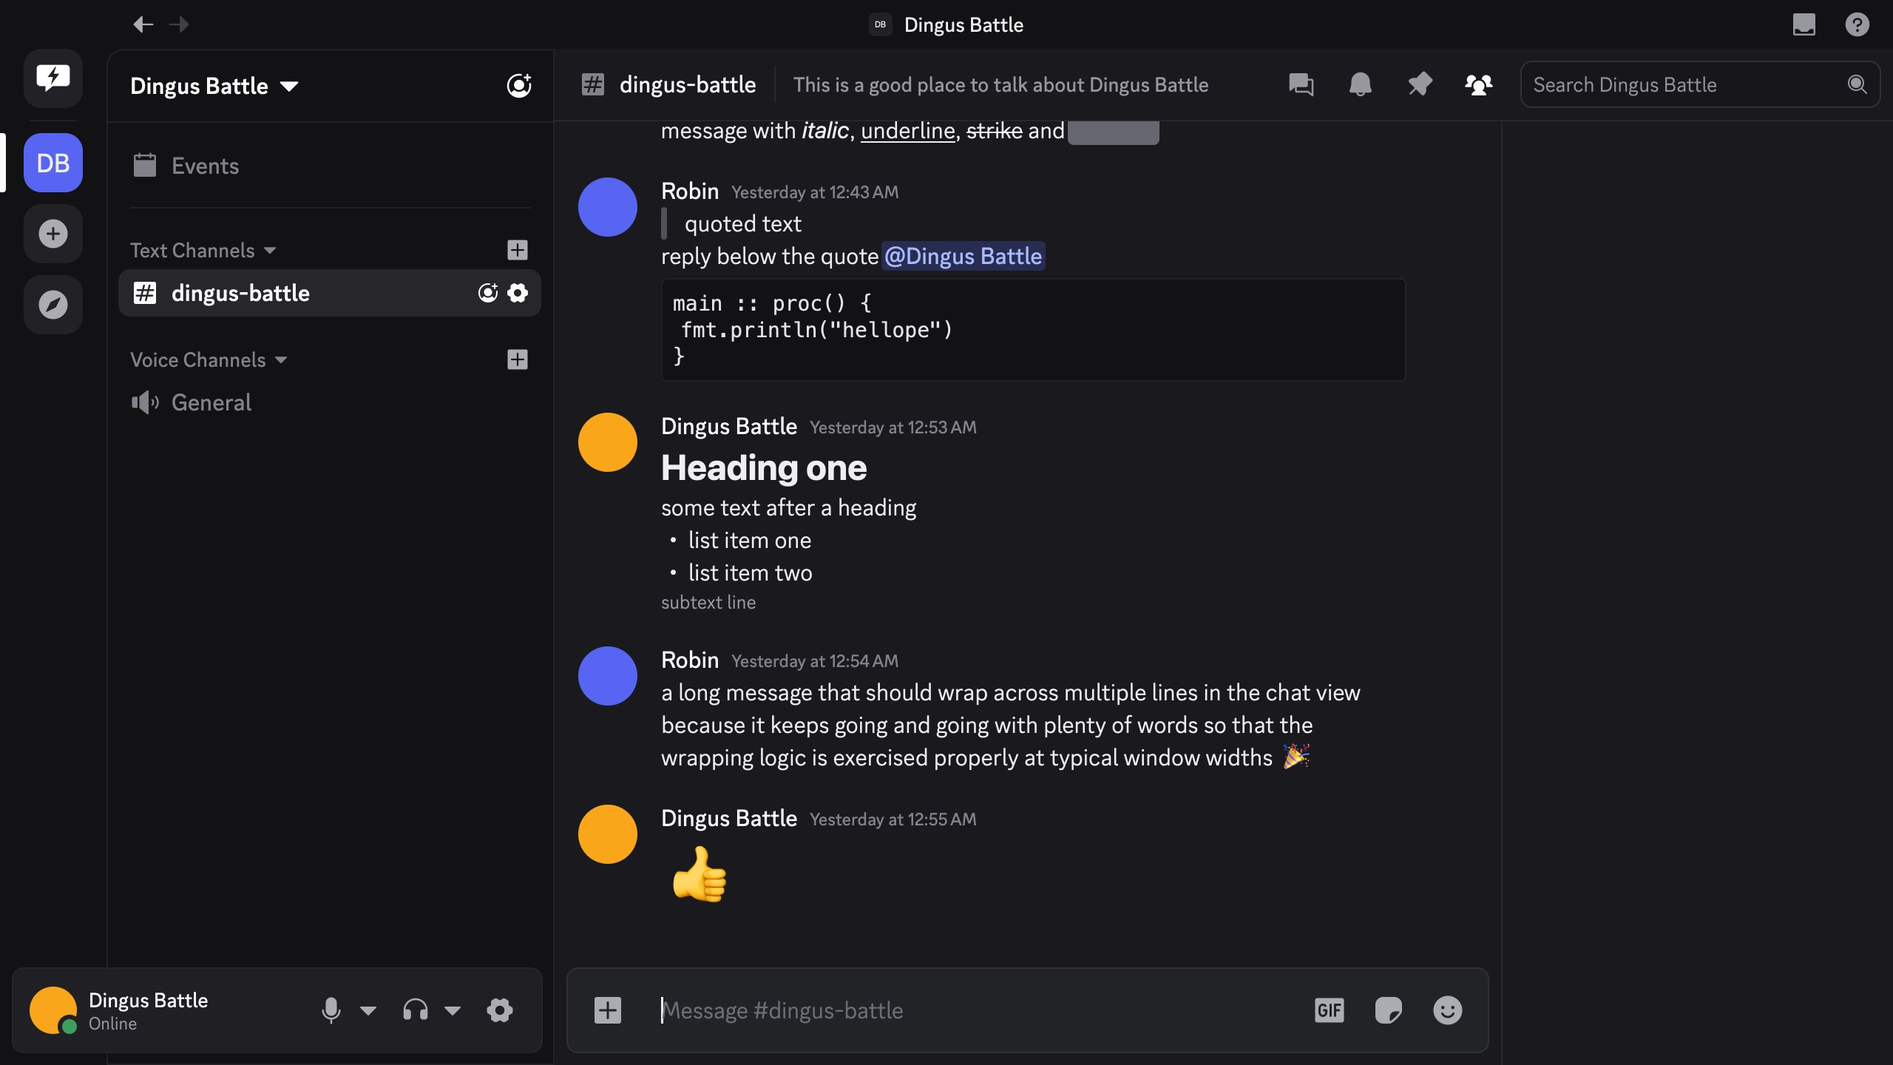
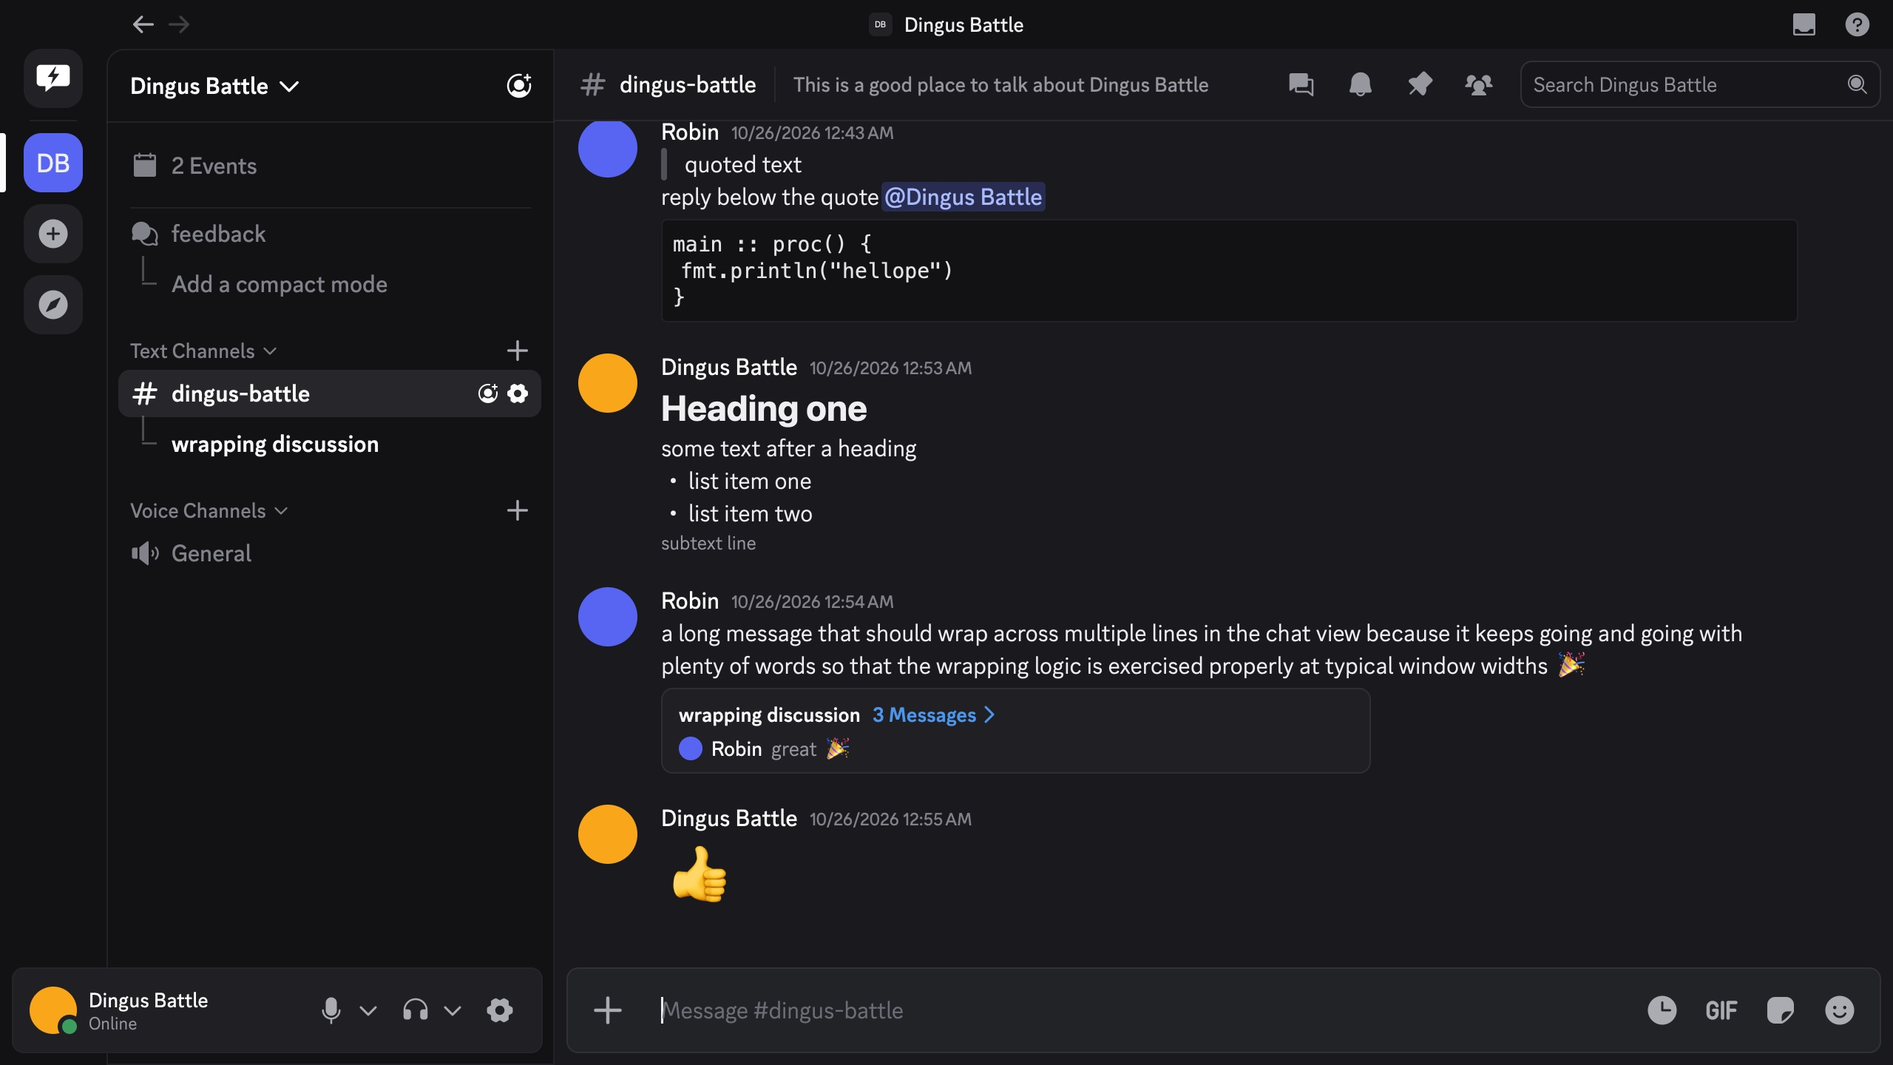
Site: Answer "Will I get banned?" first, with short copy and a fresh chart
- A "Will I get banned?" section: we don't know yet, proceed with caution,
  but it's unlikely; then three tiles (requests identical, Chrome's
  handshakes, rate limits) and the side-by-side recordings under it.
- Every paragraph is one line; first-launch notes are three short tiles.
- Feature cards sit 3 by 3 (2 by 3 on tablets, 1 column on phones).
- Phones: the two videos side by side above the traffic, compact tiles,
  swipeable scenario chips, request paths without /api/v9.
- The side-by-side opens on its cleanest scenario.
- A new hero screenshot and link preview from the current UI
  (tools/site_video.py hero).
- The all-scenarios chart is from today's live session (31 scenarios, no
  rate limits).

Also: the emoji picker's subscriptions and profile requests leave 1 ms
after top-emojis, the official order the session showed.

diff --git a/site/index.html b/site/index.html
@@ -66,12 +66,14 @@
   .shot { margin: 40px auto 0; border-radius: 14px; overflow: hidden; border: 1px solid var(--line);
     box-shadow: 0 30px 80px rgba(0,0,0,.45); }
   .shot img { display: block; width: 100%; height: auto; }
-  .grid { display: grid; grid-template-columns: repeat(auto-fit, minmax(240px, 1fr)); gap: 16px; padding: 64px 0 24px; }
+  .grid { display: grid; grid-template-columns: repeat(3, 1fr); gap: 16px; padding: 64px 0 24px; }
+  @media (max-width: 860px) { .grid { grid-template-columns: repeat(2, 1fr); } }
+  @media (max-width: 520px) { .grid { grid-template-columns: 1fr; } }
   .card { background: var(--panel); border: 1px solid var(--line); border-radius: 14px; padding: 20px; }
   .card h3 { margin: 0 0 6px; font-size: 17px; }
   .card p { margin: 0; color: var(--muted); font-size: 15px; }
+  .card a { color: var(--brand-hi); }
   .parity { padding: 40px 0 24px; }
-  .parity h2 { font-size: clamp(26px, 4.4vw, 38px); letter-spacing: -0.02em; margin: 0 0 8px; text-align: center; }
   .parity .sub { color: var(--muted); text-align: center; max-width: 640px; margin: 0 auto 24px; }
   .stats { display: flex; flex-wrap: wrap; justify-content: center; gap: 12px; margin-bottom: 20px; }
   .stat { background: var(--panel); border: 1px solid var(--line); border-radius: 12px; padding: 12px 18px; min-width: 150px; text-align: center; }
@@ -91,10 +93,7 @@
   .tip { min-height: 22px; text-align: center; color: var(--muted); font-size: 13px; font-family: ui-monospace, SFMono-Regular, Menlo, monospace;
     padding: 6px 0 12px; overflow-wrap: anywhere; }
   .fine { color: var(--muted); font-size: 13px; max-width: 720px; margin: 14px auto 0; text-align: center; }
-  .note { color: var(--muted); font-size: 14px; text-align: center; padding: 8px 0 40px; }
-  .note code { background: var(--panel); border: 1px solid var(--line); border-radius: 6px; padding: 1px 6px; }
-  .duel { padding: 56px 0 8px; }
-  .duel h2 { font-size: clamp(26px, 4.4vw, 38px); letter-spacing: -0.02em; margin: 0 0 8px; text-align: center; }
+  .duel { padding: 40px 0 8px; }
   .duel .sub { color: var(--muted); text-align: center; max-width: 680px; margin: 0 auto 20px; }
   .stage { display: grid; grid-template-columns: 1fr minmax(300px, 1.05fr) 1fr; gap: 14px; align-items: start;
     width: min(1360px, calc(100vw - 32px)); position: relative; left: 50%; transform: translateX(-50%); }
@@ -114,7 +113,7 @@
   .clock { font: 12px ui-monospace, SFMono-Regular, Menlo, monospace; color: var(--muted); font-variant-numeric: tabular-nums; }
   .wbtn { font: inherit; font-size: 12px; padding: 3px 9px; border-radius: 999px; border: 1px solid var(--line); background: transparent; color: var(--muted); cursor: pointer; }
   .wbtn:hover { color: var(--text); }
-  .rows { flex: 1; overflow-y: auto; padding: 6px 8px 10px; scroll-behavior: smooth; }
+  .rows { flex: 1; overflow-y: auto; overflow-x: hidden; padding: 6px 8px 10px; scroll-behavior: smooth; }
   .row { display: grid; grid-template-columns: 1fr 22px 1fr; gap: 6px; align-items: center; margin: 5px 0; cursor: pointer; }
   .pkt { font: 11px/1.35 ui-monospace, SFMono-Regular, Menlo, monospace; padding: 5px 7px; border-radius: 7px; border: 1px solid var(--line);
     background: var(--bg); overflow: hidden; text-overflow: ellipsis; white-space: nowrap; min-height: 26px; }
@@ -140,8 +139,35 @@
   .stage.big .vid video { cursor: zoom-out; }
   @media (max-width: 1100px) { .stage { grid-template-columns: 1fr 1fr; } .wire { grid-column: 1 / -1; order: 3; } }
   @media (min-width: 1101px) { .stage.big { grid-template-columns: 1fr 1fr; } .stage.big .wire { grid-column: 1 / -1; order: 3; } }
-  @media (max-width: 640px) { .stage { grid-template-columns: 1fr; } }
+  @media (max-width: 640px) {
+    .stage { gap: 8px; }
+    .vid h3 { padding: 7px 9px; font-size: 12px; }
+    .vid h3 .long { display: none; }
+  }
   @media (prefers-reduced-motion: reduce) { .row .l, .row .r, .row .eq { animation: none; } }
+  .ban { text-align: center; padding: 72px 0 8px; }
+  .ban h2 { font-size: clamp(30px, 5vw, 44px); letter-spacing: -0.02em; margin: 0 0 10px; }
+  .answer { font-size: clamp(18px, 2.6vw, 22px); margin: 0 auto 28px; max-width: 560px; }
+  .why, .steps { display: grid; grid-template-columns: repeat(3, 1fr); gap: 12px; }
+  .why div, .steps div { background: var(--panel); border: 1px solid var(--line); border-radius: 14px; padding: 16px; }
+  .why b { display: block; font-size: 20px; letter-spacing: -0.01em; }
+  .why span, .steps span { color: var(--muted); font-size: 14px; }
+  .steps { text-align: left; }
+  .steps div > b { display: block; margin-bottom: 4px; }
+  .steps span b { color: var(--text); font-weight: 600; }
+  .subhead { font-size: clamp(22px, 3.4vw, 28px); letter-spacing: -0.02em; margin: 0 0 6px; text-align: center; }
+  .first { padding: 40px 0 48px; }
+  @media (max-width: 640px) {
+    .why, .steps { grid-template-columns: 1fr; gap: 8px; }
+    .why div { display: flex; align-items: baseline; gap: 10px; padding: 12px 14px; text-align: left; }
+    .why b { font-size: 17px; white-space: nowrap; }
+    .ban { padding-top: 48px; }
+    .stats { display: grid; grid-template-columns: 1fr 1fr; gap: 8px; }
+    .stat { min-width: 0; padding: 10px; }
+    .stat b { font-size: 22px; }
+    .chips { flex-wrap: nowrap; overflow-x: auto; justify-content: flex-start; padding-bottom: 6px; scrollbar-width: none; }
+    .chip { flex: none; }
+  }
   footer { border-top: 1px solid var(--line); color: var(--muted); font-size: 13px; padding: 24px 0 40px; text-align: center; }
   footer a { color: var(--muted); }
 </style>
@@ -156,7 +182,7 @@
 
   <section class="hero">
     <h1>Chat, <span>native</span>.</h1>
-    <p class="lede">A fast client for Discord, written from scratch. No browser inside — just a native renderer that starts instantly, scrolls smoothly, and idles at zero CPU.</p>
+    <p class="lede">A fast Discord client with no browser inside.</p>
     <div class="downloads">
       <a class="btn primary" id="dl-mac" href="https://github.com/creikey/fastcord/releases/latest/download/fastcord-macos.zip">macOS <small>Apple silicon &amp; Intel</small></a>
       <a class="btn" id="dl-win" href="https://github.com/creikey/fastcord/releases/latest/download/fastcord-windows.zip">Windows <small>10 &amp; 11, x64</small></a>
@@ -167,21 +193,30 @@
   </section>
 
   <section class="grid">
-    <div class="card"><h3>Instant</h3><p>Native GPU rendering (Metal, Direct3D 11, OpenGL) with an immediate-mode UI. Every interaction lands on the next frame.</p></div>
-    <div class="card"><h3>Light on battery</h3><p>Nothing renders unless something changes. Idle is zero frames, zero wakeups.</p></div>
-    <div class="card"><h3>Small</h3><p>One ~5 MB app. No Chromium, no Node, no bundled browser.</p></div>
-    <div class="card"><h3>Familiar</h3><p>Servers, channels, DMs, friends, reactions, emoji, GIFs, stickers and the layout you already know.</p></div>
-    <div class="card"><h3>Voice</h3><p>Voice chat with Discord's end-to-end encryption, written from the ground up.</p></div>
-    <div class="card"><h3>Well-behaved</h3><p>Sends the same requests as the official desktop client, at the same moments. See below.</p></div>
+    <div class="card"><h3>Instant</h3><p>GPU-rendered. Every input lands on the next frame.</p></div>
+    <div class="card"><h3>Light on battery</h3><p>Idle means zero frames and zero wakeups.</p></div>
+    <div class="card"><h3>Small</h3><p>One ~5 MB app. No Chromium, no Node.</p></div>
+    <div class="card"><h3>Familiar</h3><p>The servers, DMs and layout you already know.</p></div>
+    <div class="card"><h3>Voice</h3><p>Voice with Discord's end-to-end encryption.</p></div>
+    <div class="card"><h3>Well-behaved</h3><p>Talks to Discord like the official app. <a href="#ban">See below.</a></p></div>
   </section>
 
+  <section class="ban" id="ban">
+    <h2>Will I get banned?</h2>
+    <p class="answer">We don't know yet. Proceed with caution, but it's unlikely.</p>
+    <div class="why">
+      <div><b id="why-pairs">Same requests</b><span>as the official app, field for field</span></div>
+      <div><b>Same handshakes</b><span>Chrome's TLS, HTTP/2 and QUIC</span></div>
+      <div><b id="why-rl">0 rate limits</b><span>across every live test</span></div>
+    </div>
+  </section>
 
   <section class="duel" id="side-by-side">
-    <h2>Same clicks, same packets</h2>
-    <p class="sub">Both clients, recorded doing the same thing with the same test account. The videos play in real time (click one to enlarge); in the middle, every request, gateway message and telemetry event each one sent to Discord, replayed at 1/10 speed and lined up. Tap a row to compare headers and payload fields.</p>
+    <h3 class="subhead">Same clicks, same packets</h3>
+    <p class="sub">The same action in both apps, and every packet each one sent, replayed at 1/10 speed.</p>
     <div class="chips" id="dchips" role="group" aria-label="Interaction"></div>
     <div class="stage">
-      <div class="vid"><h3><i></i>Official Discord app</h3><video id="vo" muted playsinline loop preload="metadata"></video><div class="vbar" id="bo"></div></div>
+      <div class="vid"><h3><i></i>Official<span class="long">&nbsp;Discord app</span></h3><video id="vo" muted playsinline loop preload="metadata"></video><div class="vbar" id="bo"></div></div>
       <div class="wire" id="wire">
         <div class="whead"><span class="clock">Official</span><span class="srv">discord.com</span><span class="clock">Fastcord</span></div>
         <div class="whead"><span class="clock" id="wclock">+0.000 s</span><span class="clock">1/10 speed</span><button class="wbtn" id="wreplay">Replay</button></div>
@@ -190,23 +225,27 @@
       </div>
       <div class="vid fc"><h3><i></i>Fastcord</h3><video id="vf" muted playsinline loop preload="metadata"></video><div class="vbar" id="bf"></div></div>
     </div>
-    <p class="fine" id="dfine">Only shapes are shown, never values: method and path with ids folded, header names in the order they left the machine (from Chrome's and Fastcord's network logs), JSON field names, gateway opcodes, telemetry event names and property names. Left out: heartbeats (each client sends them on its own schedule) and image or sticker downloads (they depend on what each client has cached). Differences that remain are shown as they are, unmatched rows included. One under review: the official app, recorded in a background test window, skipped read acks that Fastcord sent.</p>
+    <p class="fine">Tap a row to compare headers and fields. Only shapes are shown, never values.</p>
   </section>
 
   <section class="parity" id="traffic">
-    <h2>Indistinguishable on the wire</h2>
-    <p class="sub">To Discord's servers, Fastcord behaves like the official desktop app: the same requests with Chrome's headers in Chrome's wire order, the same TLS and HTTP/2 handshakes, the same gateway messages and telemetry batches, sent at the same moments. We recorded both clients doing the same things and lined their traffic up event by event.</p>
+    <h3 class="subhead">Every scenario</h3>
+    <p class="sub" id="psub">From a live session on October 28, 2026.</p>
     <div class="stats" id="pstats"></div>
     <div class="chips" id="pchips" role="group" aria-label="Scenario"></div>
     <div class="lanes"><svg id="plane" viewBox="0 0 1000 150" role="img" aria-label="Request timeline of both clients"></svg>
       <div class="tip" id="ptip">Hover a dot to see the request.</div></div>
-    <div class="legend"><span><i style="background:var(--brand-hi)"></i>REST request</span><span><i style="background:#e8a33d"></i>Gateway message</span><span><i style="background:#3db8a6"></i>Telemetry event</span><span><i style="border:1.5px solid var(--brand-hi)"></i>Fastcord sent it earlier in the session</span><span><i style="border:1.5px solid var(--muted)"></i>Only in one client</span></div>
-    <p class="fine">Every scenario, from the last full session (32 scenarios, October 27, 2026, before the fixes shown above). Each official recording starts right after a fresh launch; Fastcord ran every scenario in one 14-minute session, as a person would, so one-time loads (command lists, emoji data) show up earlier for it. Events shown faint are ones Fastcord did not send in that session. Every action is also replayed offline against the official recording from the same starting state, request by request and header by header.</p>
+    <div class="legend"><span><i style="background:var(--brand-hi)"></i>REST request</span><span><i style="background:#e8a33d"></i>Gateway message</span><span><i style="background:#3db8a6"></i>Telemetry event</span><span><i style="border:1.5px solid var(--brand-hi)"></i>Sent earlier in the session</span><span><i style="border:1.5px solid var(--muted)"></i>Only in one client</span></div>
   </section>
 
-  <p class="note">Windows: unzip and run <b>Fastcord.exe</b>. It isn't code-signed yet, so SmartScreen may warn the first time: click <b>More info → Run anyway</b>.</p>
-  <p class="note">Linux: extract the archive and run <b>./fastcord</b>, or <b>./install.sh</b> to add it to your app menu. One build for every distribution (glibc 2.17 or newer), on X11 and Wayland desktops.</p>
-  <p class="note">First launch on macOS: Fastcord isn't notarized by Apple yet, so macOS blocks it the first time. Click <b>Done</b>, then open <b>System Settings → Privacy &amp; Security</b> and click <b>Open Anyway</b>. After that it opens normally and shows an Update button when a new release is out.</p>
+  <section class="first">
+    <h3 class="subhead">First launch</h3>
+    <div class="steps">
+      <div><b>macOS</b><span>Blocked once: <b>System Settings → Privacy &amp; Security → Open Anyway</b>.</span></div>
+      <div><b>Windows</b><span>SmartScreen warns once: <b>More info → Run anyway</b>.</span></div>
+      <div><b>Linux</b><span>Run <b>./fastcord</b>, or <b>./install.sh</b> for the app menu.</span></div>
+    </div>
+  </section>
 
   <footer>
     Fastcord is an unofficial client and is not affiliated with or endorsed by Discord Inc.
@@ -221,7 +260,7 @@
     const $ = id => document.getElementById(id);
     const vo = $("vo"), vf = $("vf"), rows = $("wrows"), det = $("wdetail"), clock = $("wclock");
     const esc = t => t.replace(/[&<>]/g, c => ({"&": "&amp;", "<": "&lt;", ">": "&gt;"})[c]);
-    const label = e => e.k === 2 ? "science · " + e.l : e.k === 1 ? "gateway · " + e.l : e.l;
+    const label = e => e.k === 2 ? "science · " + e.l : e.k === 1 ? "gateway · " + e.l : e.l.replace(" /api/v9/", " /");
     const same = (a, b) => a && b && JSON.stringify(a) === JSON.stringify(b);
     let cur, raf, t0;
     // pairs in time order: matched [i, j], or only-official [i, -1] / only-fastcord [-1, j]
@@ -291,12 +330,19 @@
       st.style.setProperty("--wire-h", (wide ? Math.max(300, vo.getBoundingClientRect().height + 80) : 440) + "px"); };
     addEventListener("resize", fit); vo.addEventListener("loadedmetadata", fit);
     for (const v of [vo, vf]) v.onclick = () => { document.querySelector(".stage").classList.toggle("big"); fit(); };
+    // the ban section's first tile: matched pairs identical in protocol, header order and fields
+    let nsame = 0, nall = 0;
+    for (const s of d.scenarios) for (const [i, j] of s.m) { nall++; nsame += verdict(s.o[i], s.f[j]).ok; }
+    $("why-pairs").textContent = `${nsame} of ${nall}`;
+    $("why-pairs").nextElementSibling.textContent = "requests identical to the official app's";
     for (const s of d.scenarios) {
       const b = document.createElement("button");
       b.className = "chip"; b.dataset.n = s.n; b.textContent = s.title;
       b.onclick = () => show(s); $("dchips").append(b);
     }
-    show(d.scenarios[0]);
+    // open on the scenario with the fewest unpaired events
+    const loose = s => s.o.length + s.f.length - 2 * s.m.length;
+    show(d.scenarios.reduce((a, b) => loose(b) < loose(a) ? b : a));
   }).catch(() => document.getElementById("side-by-side").remove());
 </script>
 <script>
@@ -313,7 +359,7 @@
     }
     const stat = (v, t) => `<div class="stat"><b>${v}</b><span>${t}</span></div>`;
     document.getElementById("pstats").innerHTML = stat(sc.length, "scenarios recorded") +
-      stat(pct(ok, n), "requests &amp; gateway messages in step") + stat(pct(tok_, tn), "measurable telemetry in step") + stat("0", "rate limits hit");
+      stat(pct(ok, n), "requests &amp; gateway messages in step") + stat(pct(tok_, tn), "telemetry events in step") + stat("0", "rate limits hit");
     const chips = document.getElementById("pchips"), svg = document.getElementById("plane"), tip = document.getElementById("ptip");
     const show = s => {
       for (const c of chips.children) c.setAttribute("aria-pressed", c.dataset.n === s.n);

diff --git a/tools/site_video.py b/tools/site_video.py
@@ -10,6 +10,8 @@
 #
 #   python3 -I tools/site_video.py fastcord <s>...   (live run, needs build/fastcord-dev)
 #   python3 -I tools/site_video.py build <s>...      (scrub, encode the videos, write parity_video.json)
+#   python3 -I tools/site_video.py hero              (site/screenshot.jpg from the threads fixture, offline;
+#                                                     then `jai build.jai - og` for the link preview)
 import json, os, re, subprocess, sys, tempfile
 
 ROOT = os.path.dirname(os.path.dirname(os.path.abspath(__file__)))
@@ -169,7 +171,15 @@ def build(names):
     print(f'-> {dst} ({os.path.getsize(dst)} bytes)')
 
 
+def hero():
+    png = os.path.join(SEC, 'video', 'hero.png')
+    run(os.path.join(ROOT, 'build', 'fastcord-dev'), f'-shot:{png}', '-dpi:2', f'-fixture:{ROOT}/tests/ui/chat_threads.jsonl',
+        '-channel:1546820603343016006', f'-script:{ROOT}/tests/video/hero.txt', cwd=ROOT)
+    run('sips', '-s', 'format', 'jpeg', '-s', 'formatOptions', '85', png, '--out', os.path.join(ROOT, 'site', 'screenshot.jpg'), stdout=subprocess.DEVNULL)
+
+
 if __name__ == '__main__':
+    if len(sys.argv) == 2 and sys.argv[1] == 'hero': hero(); raise SystemExit
     if len(sys.argv) < 3 or sys.argv[1] not in ('fastcord', 'build'): raise SystemExit(__doc__ if __doc__ else 'usage: site_video.py fastcord|build <scenario>...')
     if sys.argv[1] == 'fastcord':
         for s in sys.argv[2:]: fastcord(s)

diff --git a/TODO.md b/TODO.md
@@ -131,6 +131,7 @@
 - [ ] Timeouts: being timed out in a server shows nothing. Nothing reads the member's `communication_disabled_until`, so the composer stays open, sent messages turn red, and reactions and voice joins fail silently. A timeout leaves only View Channel and Read Message History, so apply it in `permissions.jai`, and show a bar with the time left in place of the composer.
 - [ ] Traffic: close the last fingerprint gap against Chrome listed in README.md (the QUIC packet-number counter).
 - [ ] Traffic: check read acks on opening an unread DM. Neither official capture of `open_dm` (fixture and the site recording, 2026-10-28) acks the DM's unread messages, while fastcord acks at once. The capture driver's test window is in the background (focus is only emulated in the page), so this may be the official "no acks while unfocused" rule rather than a fastcord bug. Capture once with the test window really focused and settle it either way (`traffic/CLIENT_RULES.md`).
+- [ ] Traffic: the live parity session (`build/parity session`) never connects voice media, so op 31 and the soundboard GET, which wait for RTC_CONNECTED, show as missing in `join_voice_channel` and `voice_with_b` (2026-10-28 session). Run the voice connection in the session runner (as the app does) so those windows measure the real behaviour; the site's side-by-side app recordings already do.
 - [ ] Traffic (account risk): the Windows identity is guessed, with no capture. Capture the official Windows client's cold start (super properties, user agent, `sec-ch-ua-platform`, Accept-Language on a non-English system) and replace `WINDOWS_HOST_VERSION` 1.0.9272 and `WINDOWS_NATIVE_BUILD` 96312 (`discord/identity.jai`), whose reasoning is in `traffic/CLIENT_RULES.md`. Also check `windows_platform` and `windows_timezone` on a real Windows machine (written and type-checked on macOS only).
 - [ ] Traffic (account risk): the host app versions never move. `HOST_VERSION`, `NATIVE_BUILD`, `CHROME_VERSION` and `ELECTRON_VERSION` (`discord/identity.jai`) are pinned, while the official client updates itself within days through Discord's updater (`updater.node`, the `discord_updater_bootstrap` module). Capture the updater's traffic at launch and on its periodic checks (the web app's `version.stable.json` re-checks 54-74 s after the first are its echo) and model it: what fastcord should report after an update, and when.
 - [ ] Build: on macOS, any `linux` target (`jai build.jai - module discord linux`, `- dev linux`) writes its Linux archive to `build/fc_vendor.a`, the native one, so the next native build fails to link ("unknown cpu architecture"). `VENDOR_LIB` in `build.jai` returns `build/fc_vendor.a` when `LINUX`; give Linux its own path under `build/linux`.
